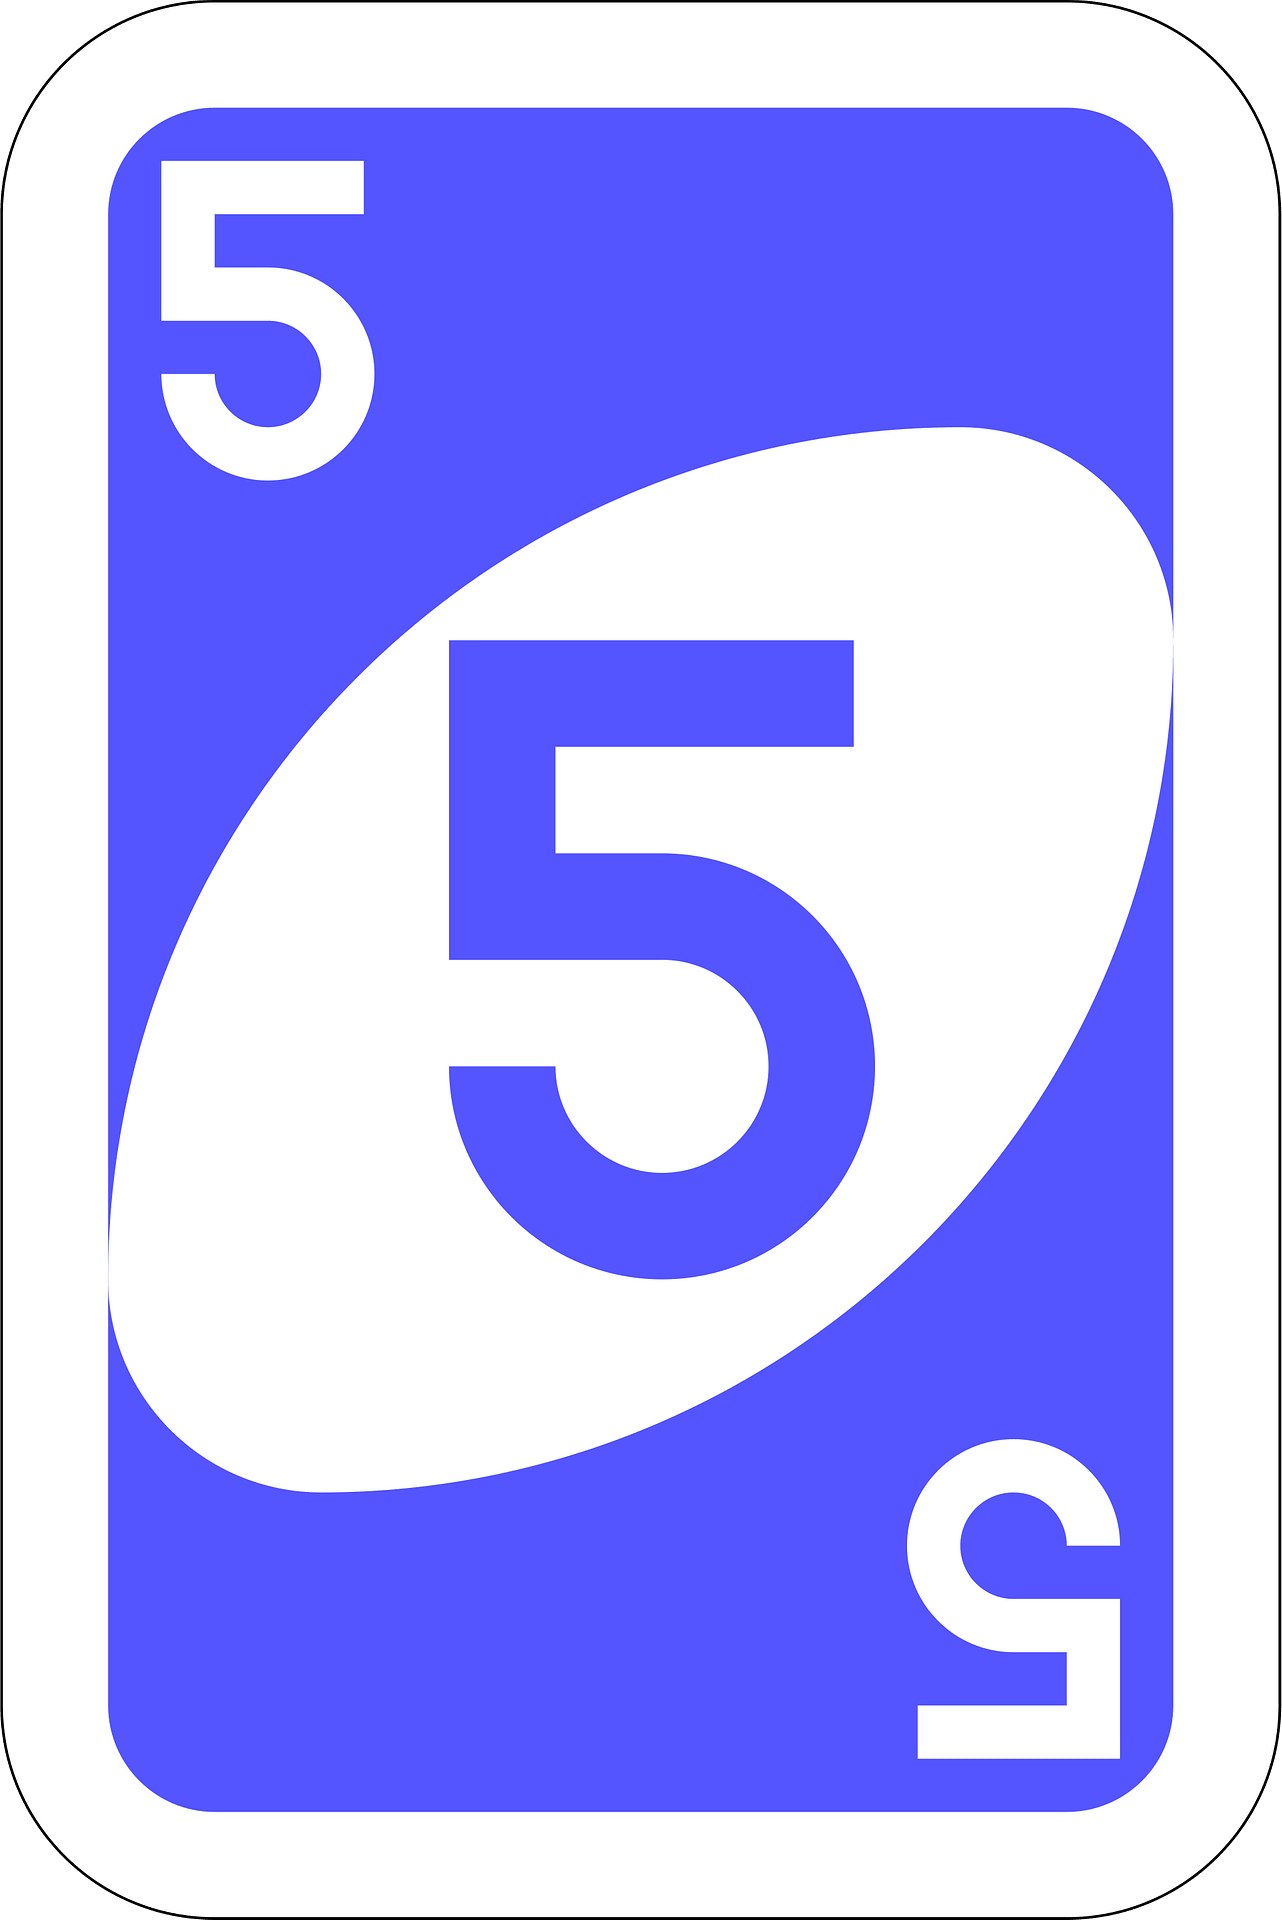
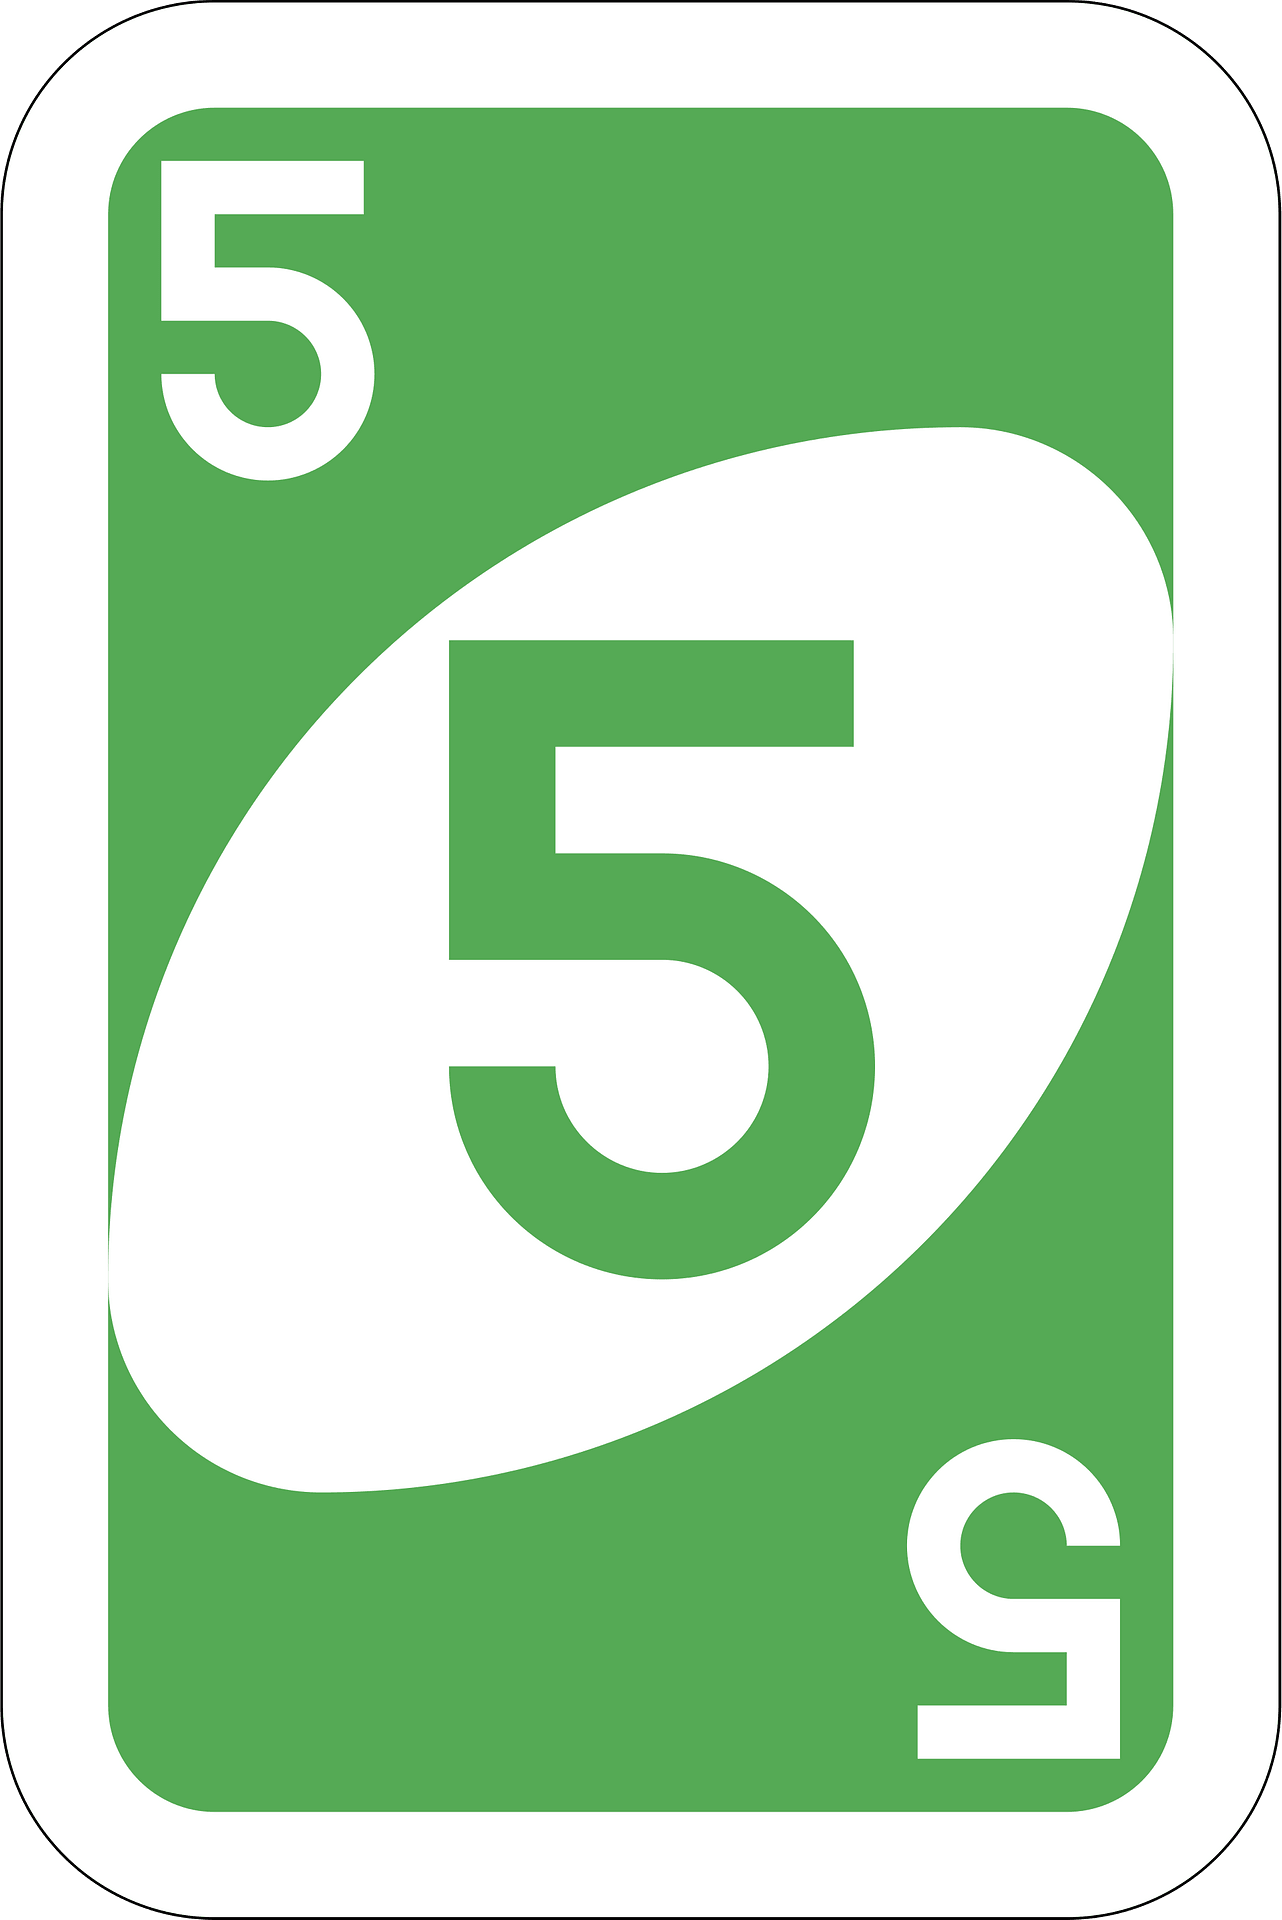
changed memory ui to fit pixel better and changed card images, fix #2

diff --git a/DevelopmentInTeam/Pages/MemoryPage.xaml b/DevelopmentInTeam/Pages/MemoryPage.xaml
@@ -7,7 +7,7 @@
     <!--MAIN GRID-->
     <Grid BackgroundColor="#333333" RowDefinitions=".7*,400,.4*,.6*" ColumnDefinitions="*,300,*">
 
-        <Grid x:Name="MemoryDeck" Grid.Row="1" Grid.Column="1" RowDefinitions="*,*,*,*" ColumnDefinitions="*,*,*" ColumnSpacing="0" BackgroundColor="#333333" >
+        <Grid x:Name="MemoryDeck" Grid.Row="1" Grid.Column="1" RowDefinitions="*,*,*,*" ColumnDefinitions="*,*,*" ColumnSpacing="0" RowSpacing="6" BackgroundColor="#333333" >
 
             <!--ROW 4-->
             <ImageButton Grid.Row="0" Grid.Column="0" Source="card_back.png" Aspect="AspectFit" BackgroundColor="#333333"></ImageButton>
